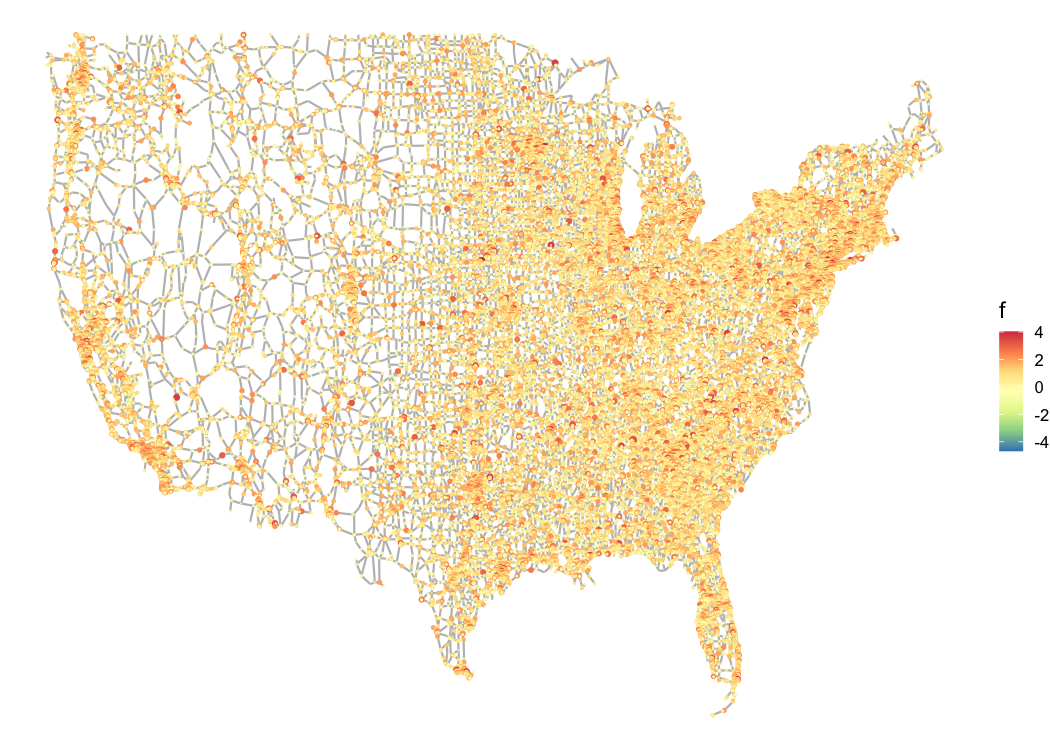
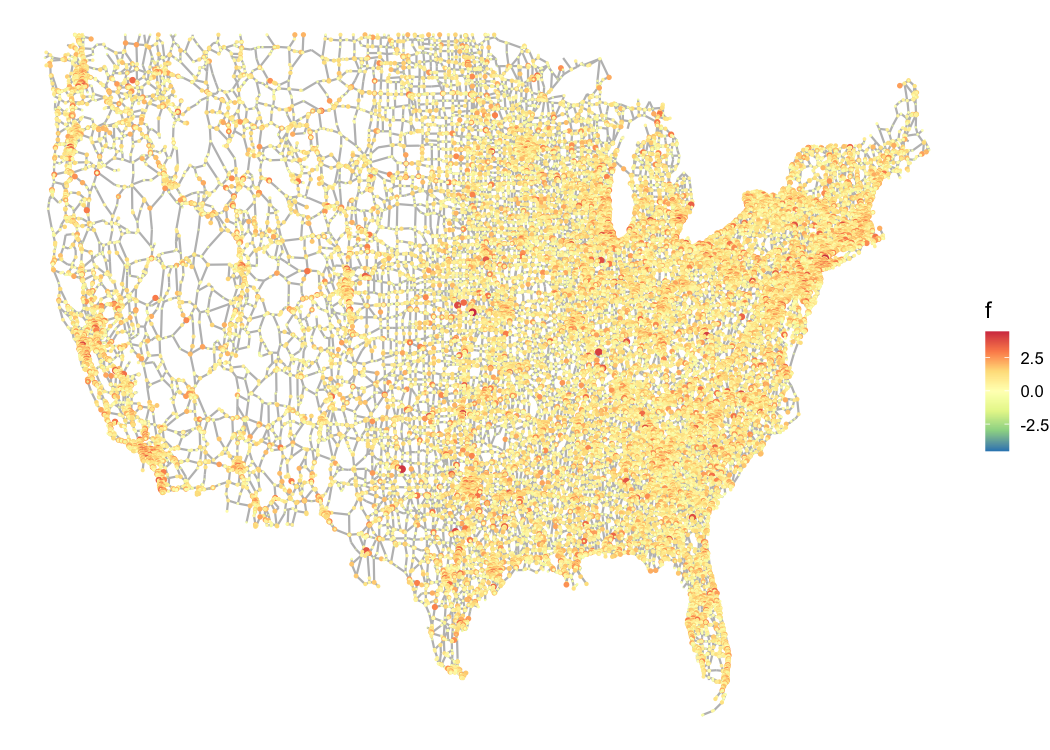
adapt plot_signal for spectral drawing

diff --git a/README.md b/README.md
@@ -128,7 +128,17 @@ non-zero eigenvalues of the graph’s Laplacian.
 matrixname <- "delaunay_n10"
 groupname <- "DIMACS10"
 download_graph(matrixname,groupname)
+attributes(delaunay_n10)
+#> $names
+#> [1] "sA"   "dim"  "info"
 plot_graph(delaunay_n10)
 ```
 
 <img src="README_files/figure-markdown_github/unnamed-chunk-11-1.png" width="50%" style="display: block; margin: auto;" />
+
+``` r
+plot_signal(delaunay_n10,
+            cos(1:nrow(delaunay_n10$sA)))
+```
+
+<img src="README_files/figure-markdown_github/unnamed-chunk-11-2.png" width="50%" style="display: block; margin: auto;" />
